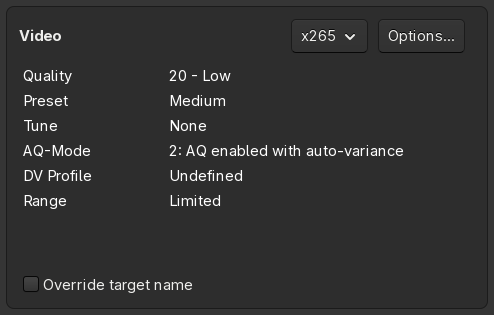
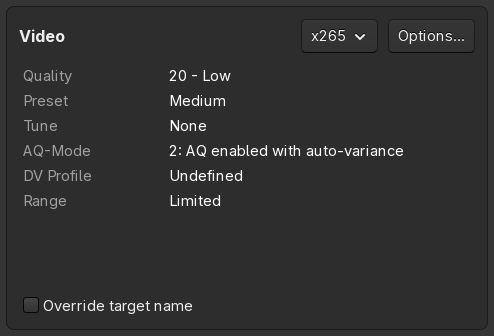
docs: describe the reviewed main window and retake the screenshots
The main window page describes the changes of the design review: the
source facts with the key values in the text color and the PAR and
DAR, the Source PAR and Source DAR menus of the source menu, the
Crop... button and the Size slider of the crop and resize card, the
language dropdown of the audio rows, and the next step, whose button
now resolves every warning and error and whose outlines take its
color.

The 31 screenshots that changed are taken again with v1.25.5 on a
GNOME (mutter) desktop with Adwaita dark and optimized with optipng.

Tested: every image referenced by the docs exists.

diff --git a/Docs/Usage/User-Interface/Main.md b/Docs/Usage/User-Interface/Main.md
@@ -148,10 +148,9 @@ Many help related entries, that might help you in some cases.
 ## Source
 
 The Source card shows the path of the source file and its properties, like its duration, size, bitrate, frame rate,
-resolution, color format, HDR format and codec.
-
-Below them the crop size and the pixel aspect ratio (PAR) and display aspect ratio (DAR) of the source are shown.
-`PAR` and `DAR` are menus to override the aspect ratio of the source.
+resolution, color format, HDR format, codec and its pixel aspect ratio (PAR) and display aspect ratio (DAR).
+The key values, like the duration, frame rate, resolution, HDR format and codec, are shown in the text color, the
+others dimmed. A path that doesn't fit shows its end with the file name.
 
 The button with the three dots next to the heading opens the source file menu, which also opens with a right-click
 on the path:
@@ -168,6 +167,9 @@ on the path:
     Opens the folder, that contains the source file, in the file manager.
 - #### Copy / Paste
     Copies and pastes the path.
+- #### Source PAR / Source DAR
+    Override the pixel or display aspect ratio of the source, for sources with a wrong aspect ratio.
+    `Edit Menu...` customizes the values of the menu.
 
 Video files can also be opened by dropping them on the main window.
 
@@ -269,18 +271,19 @@ The button next to the heading and a right-click on a filter open the filter men
 The Crop and Resize card gives you the opportunity to resize the given video pretty easy. To do so you can choose
 between (custom) pre-defined resolutions as well as a slider.
 
-`Presets` next to the heading opens a menu with pre-defined resolutions to choose from, `Image Options...` opens the
-image page of the [Project Options](Project-Options.md) and `Edit Menu...` the editor to customize the resolutions.
+`Crop...` next to the heading opens the [Crop](Crop.md) window (`F3`). `Presets` opens a menu with pre-defined
+resolutions to choose from, `Image Options...` opens the image page of the [Project Options](Project-Options.md) and
+`Edit Menu...` the editor to customize the resolutions.
 
 Below the actual resolution is shown, separated in `Width` and `Height`. In case the `Resize` filter is active,
 you can use the `up`/`down` keys or the mouse wheel to increment/decrement the values by the set `Output Mod` value
 in [Project Options](Project-Options.md), by default `2`.  
-Alternatively you can move the slider below to adjust the resolution, with `Ctrl` it resizes anamorphic.
+Alternatively you can move the `Size` slider below to adjust the resolution, with `Ctrl` it resizes anamorphic.
 
 Then you get some information about the target image/video:
 
 - #### Crop
-    The crop values, set by hand via [Crop](Crop.md) or by `Auto Crop`. `Crop...` opens the [Crop](Crop.md) window.  
+    The cropped sides (left, right / top, bottom), set by hand via [Crop](Crop.md) or by `Auto Crop`.  
     For more information check out [Cropping](../Cropping.md).
 - #### DAR
     Display Aspect Ratio, `DAR` opens a menu to set it.
@@ -327,7 +330,8 @@ next to it there are:
     choose another file, and commands to play the track, show its MediaInfo, explore its folder, process it or
     remove it from the track.
 - #### Language
-    The language of the track, which is set in its audio settings.
+    The button shows the language of the track and opens a menu with the common languages, all others are listed
+    under `More` by their initial.
 - #### Profile
     The button shows the audio profile of the track and opens a menu with all audio profiles, `Edit Profiles...` opens
     a dialog to edit this list as well as the audio profiles themselves.
@@ -356,6 +360,7 @@ The bar at the bottom says what needs attention next, so you can check the proje
   output or a script error.
 - When everything is fine, the bar says that the job is **ready** and [Add to Jobs](Main.md#add-to-jobs) is enabled.
 
-The button next to the message opens what resolves it, for example the crop window, the target file dialog or the
-encoder options. Hints and warnings can be skipped with `Continue`, the next one is shown then. The controls a
-message refers to are outlined.
+The button next to the message resolves it. It opens what fixes the problem, for example the crop window, the target
+file dialog or the options of an audio track, or it applies the fix, for example `Use MKV` for a target file with
+the wrong extension. Hints and warnings can be skipped with `Continue`, the next one is shown then. The controls a
+warning or error refers to are outlined in its color.
